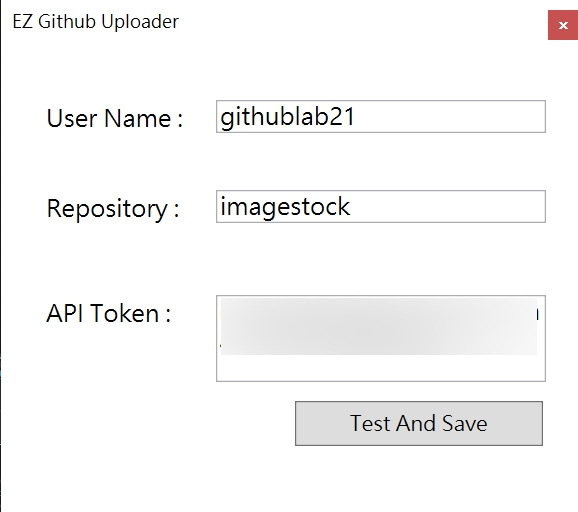
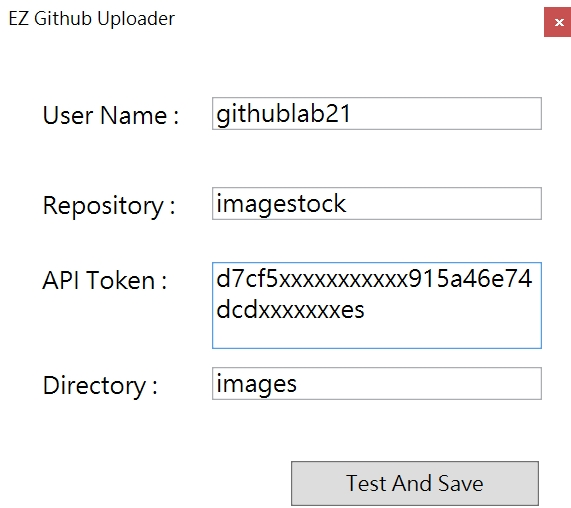
fix some bugs.

diff --git a/MainWindow.xaml b/MainWindow.xaml
@@ -18,9 +18,17 @@
         <Label Content="Repository :" HorizontalAlignment="Left" Margin="25,94,0,0" VerticalAlignment="Top" FontSize="16"/>
         <TextBox HorizontalAlignment="Left" x:Name="txtRepo"  Margin="143,97,0,0" Text="" TextWrapping="Wrap" VerticalAlignment="Top" Width="220" FontSize="16"/>
 
-        <Label Content="API Token :" HorizontalAlignment="Left" Margin="25,164,0,0" VerticalAlignment="Top" FontSize="16"/>
-        <TextBox HorizontalAlignment="Left"   x:Name="txtToken"  Margin="143,167,0,0" Text="" TextWrapping="Wrap" VerticalAlignment="Top" Width="220" FontSize="16" Height="58"/>
-        <Button x:Name="btnSave" Content="Test And Save"  HorizontalAlignment="Left" Margin="196,238,0,0" VerticalAlignment="Top" Height="30" Width="165" FontSize="14" Click="btnSave_Click"/>
+        <Label Content="API Token :" HorizontalAlignment="Left" Margin="25,144,0,0" VerticalAlignment="Top" FontSize="16"/>
+        <TextBox HorizontalAlignment="Left"   x:Name="txtToken"  Margin="143,147,0,0" Text="" TextWrapping="Wrap" VerticalAlignment="Top" Width="220" FontSize="16" Height="58"/>
+
+
+
+        <Label Content="Directory :" HorizontalAlignment="Left" Margin="25,214,0,0" VerticalAlignment="Top" FontSize="16"/>
+        <TextBox HorizontalAlignment="Left" x:Name="txtDir"   Margin="143,217,0,0" Text="assets" TextWrapping="Wrap" VerticalAlignment="Top" Width="220" FontSize="16"/>
+
+
+
+        <Button x:Name="btnSave" Content="Test And Save"  HorizontalAlignment="Left" Margin="196,280,0,0" VerticalAlignment="Top" Height="30" Width="165" FontSize="14" Click="btnSave_Click"/>
 
 
 

diff --git a/GithubDataWindow.xaml.cs b/GithubDataWindow.xaml.cs
@@ -36,7 +36,7 @@ namespace EZGitUploader
             System.Windows.Application.Current.Shutdown();
         }
 
-        private async void Delete(string[] localPath)
+        private  void Delete(string[] localPath)
         {
 
             try
@@ -49,7 +49,7 @@ namespace EZGitUploader
                     return;
                 }
 
-                var existingFiles = GitHubClient.Repository.Content.GetAllContentsByRef(GitInfo.UserName, GitInfo.RepoName, "assets/", "master").Result;
+                var existingFiles = GitHubClient.Repository.Content.GetAllContentsByRef(GitInfo.UserName, GitInfo.RepoName, GitInfo.Dir+"/", "master").Result;
 
                 if (existingFiles != null)
                 {
@@ -59,7 +59,7 @@ namespace EZGitUploader
                         {
                             //    MessageBox.Show(f.Name);
                             txtResult.Content = "Delete " + f.Name;
-                            await GitHubClient.Repository.Content.DeleteFile(GitInfo.RepoId, "assets/" + f.Name, new DeleteFileRequest("delete file", f.Sha));
+                             GitHubClient.Repository.Content.DeleteFile(GitInfo.RepoId, GitInfo.Dir + "/" + f.Name, new DeleteFileRequest("delete file", f.Sha)).RunSynchronously();
 
                         }
                     }
@@ -67,7 +67,7 @@ namespace EZGitUploader
             }
             catch (Exception ex)
             {
-                MessageBox.Show(ex.Message);
+               // MessageBox.Show(ex.Message);
             }
         }
 
@@ -80,7 +80,7 @@ namespace EZGitUploader
                 //最後一個參數是否要轉成 base64
                 var updateRequest = new UpdateFileRequest("Upload by EZ Github Uploader.", Convert.ToBase64String(File.ReadAllBytes(localPath)), "SHA", false);
 
-                var res = GitHubClient.Repository.Content.UpdateFile(GitInfo.RepoId, "assets/" + System.IO.Path.GetFileName(localPath), updateRequest).Result;
+                var res = GitHubClient.Repository.Content.UpdateFile(GitInfo.RepoId, GitInfo.Dir + "/" + System.IO.Path.GetFileName(localPath), updateRequest).Result;
 
                 return res.Content.DownloadUrl;
             }
@@ -98,7 +98,7 @@ namespace EZGitUploader
 
             try
             {
-                var existingFiles = GitHubClient.Repository.Content.GetAllContentsByRef(GitInfo.UserName, GitInfo.RepoName, "assets/", "master").Result;
+                var existingFiles = GitHubClient.Repository.Content.GetAllContentsByRef(GitInfo.UserName, GitInfo.RepoName, GitInfo.Dir + "/", "master").Result;
 
                 if (existingFiles != null)
                 {
@@ -150,33 +150,20 @@ namespace EZGitUploader
                     var i = 0;
                     foreach (var f in files)
                     {
-                        System.Windows.Application.Current.Dispatcher.Invoke(DispatcherPriority.Background, new ThreadStart(delegate
-                        {
-                            txtResult.Content = "Handling " + f;
+                        txtResult.Content = "Handling " + f;
 
-                            var res = UploadFile(f);
-                            if (!string.IsNullOrEmpty(res))
-                            {
-                                var t = new ListBoxItem();
-                                t.Tag = res;
-                                t.Content = System.IO.Path.GetFileName(f);
-                                listFiles.Items.Insert(0, t);
-                                //System.Windows.Application.Current.Dispatcher.Invoke(DispatcherPriority.Background, new ThreadStart(delegate
-                                //{
-
-                                //}));
-                            }
-                        }));
+                        var res = UploadFile(f);
                     }
                 }
 
                 System.Windows.Application.Current.Dispatcher.Invoke(DispatcherPriority.Background, new ThreadStart(delegate
                 {
                     txtResult.Content = "Success Upload";
+                    UpdateListBox();
                 }));
 
 
-                // UpdateListBox();
+              
 
             }
             else
@@ -198,7 +185,11 @@ namespace EZGitUploader
 
             GitHubClient.Credentials = new Credentials(GitInfo.Token);
 
-            UpdateListBox();
+            System.Windows.Application.Current.Dispatcher.Invoke(DispatcherPriority.Background, new ThreadStart(delegate
+            {
+            
+                UpdateListBox();
+            }));
 
         }
 
@@ -211,6 +202,11 @@ namespace EZGitUploader
         private void btnRefresh_Click(object sender, RoutedEventArgs e)
         {
             UpdateListBox();
+
+            System.Windows.Application.Current.Dispatcher.Invoke(DispatcherPriority.Background, new ThreadStart(delegate
+            {
+                UpdateListBox();
+            }));
         }
     }
 }

diff --git a/MainWindow.xaml.cs b/MainWindow.xaml.cs
@@ -39,6 +39,7 @@ namespace EZGitUploader
                     txtRepo.Text = info.RepoName;
                     txtToken.Text = info.Token;
                     txtUserName.Text = info.UserName;
+                    txtDir.Text = info.Dir;
                 }
                 catch
                 {
@@ -66,6 +67,13 @@ namespace EZGitUploader
                 return;
             }
 
+
+            if (string.IsNullOrEmpty(txtDir.Text.Trim()))
+            {
+                MessageBox.Show("Directory is required");
+                return;
+            }
+
             btnSave.IsEnabled = false;
             btnSave.Content = "Checking...";
 
@@ -87,7 +95,7 @@ namespace EZGitUploader
                 {
                     if (repo.Name == txtRepo.Text.Trim())
                     {
-                        var info = new GithubPersonalInfo {  RepoName=txtRepo.Text , Token=txtToken.Text , UserName=txtUserName.Text,RepoId=repo.Id};
+                        var info = new GithubPersonalInfo {  RepoName=txtRepo.Text,Dir=txtDir.Text , Token=txtToken.Text , UserName=txtUserName.Text,RepoId=repo.Id};
 
                         var str = JsonConvert.SerializeObject(info);
                         File.WriteAllText(AppDomain.CurrentDomain.BaseDirectory + "info.json", str);

diff --git a/GitPersonalInfo.cs b/GitPersonalInfo.cs
@@ -11,5 +11,7 @@ namespace EZGitUploader
         public string Token { get; set; }
 
         public long RepoId { get; set; }
+
+        public string Dir { get; set; }
     }
 }

diff --git a/README.md b/README.md
@@ -5,6 +5,8 @@
 
 不過我個人是覺得很方便就分享給大家吧 :)
 
+base on .Net Core 3.1 WPF
+
 ![alt SampleResult](https://github.com/donma/EZGitUploader/blob/master/ezhitu1.jpg?raw=true)
 
 
